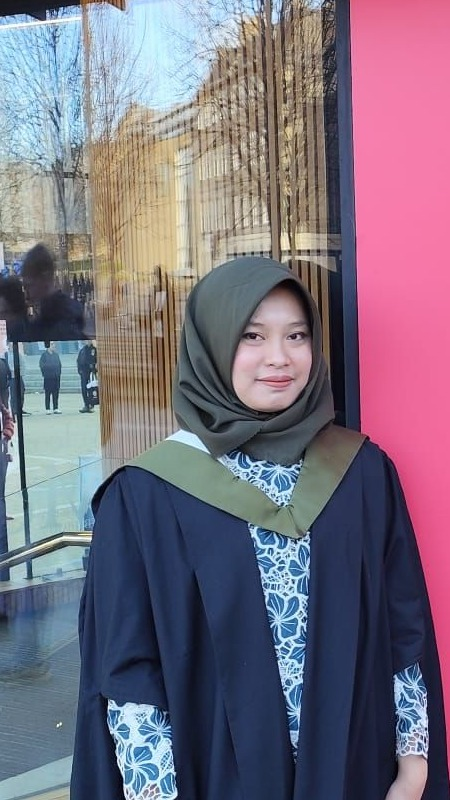
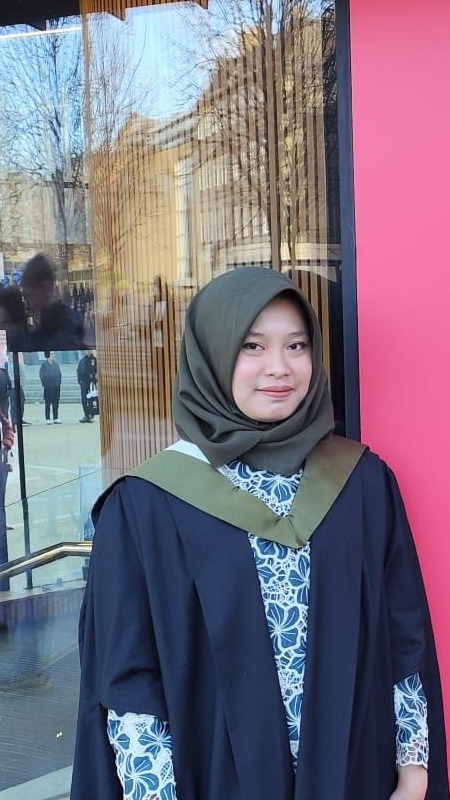
fix(marquee): eliminate white gaps above/below mentor card photos
The flex parent (gap-6) stretches all cards to match the tallest one
(282px when names wrap to 2 lines). Because the <button> children used
display:block, the browser distributed the extra height as 20px white
space at top AND 20px at bottom — making it look like the photo had a
white margin. Adding flex flex-col to the button anchors the avatar at
the top and pushes the body to the bottom, so photos now fill edge to
edge on every card regardless of how the name wraps.

Also re-tighten Hasna's avatar crop so her hijab/face starts right at
the top of the visible band.

diff --git a/src/components/landing/MentorMarquee.tsx b/src/components/landing/MentorMarquee.tsx
@@ -18,7 +18,7 @@ function MentorCard({ mentor, onClick }: { mentor: Mentor; onClick: () => void }
     <button
       type="button"
       onClick={onClick}
-      className="flex-shrink-0 w-60 bg-white rounded-2xl shadow-[var(--shadow-md)] overflow-hidden hover:shadow-[var(--shadow-lg)] transition-shadow duration-300 cursor-pointer group text-left focus:outline-none focus-visible:ring-2 focus-visible:ring-primary-300"
+      className="flex-shrink-0 w-60 flex flex-col bg-white rounded-2xl shadow-[var(--shadow-md)] overflow-hidden hover:shadow-[var(--shadow-lg)] transition-shadow duration-300 cursor-pointer group text-left focus:outline-none focus-visible:ring-2 focus-visible:ring-primary-300"
     >
       <div className={`h-36 ${mentor.color} flex items-center justify-center relative overflow-hidden`}>
         <MentorAvatar mentor={mentor} sizes="240px" initialsClassName="text-4xl" />
